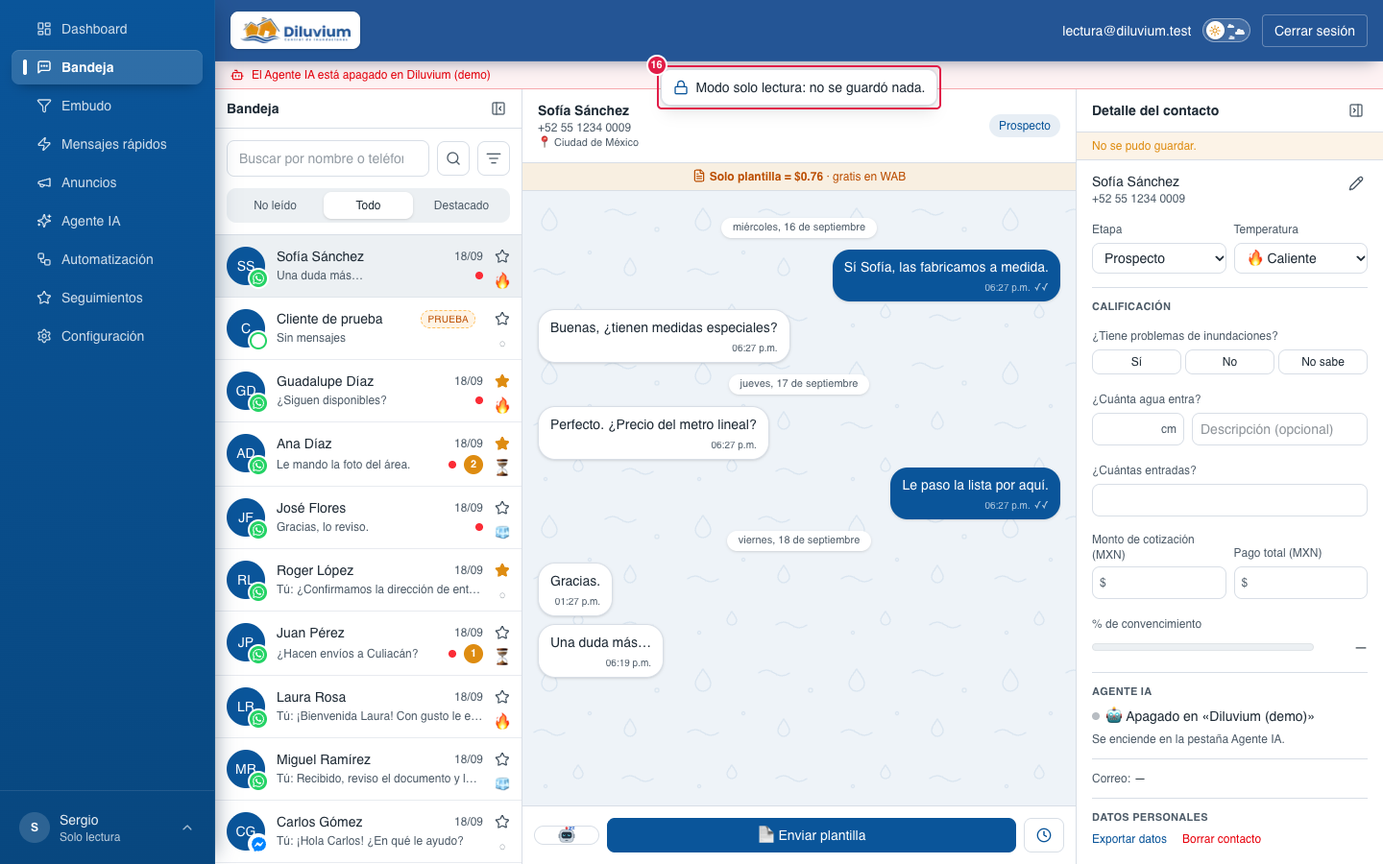
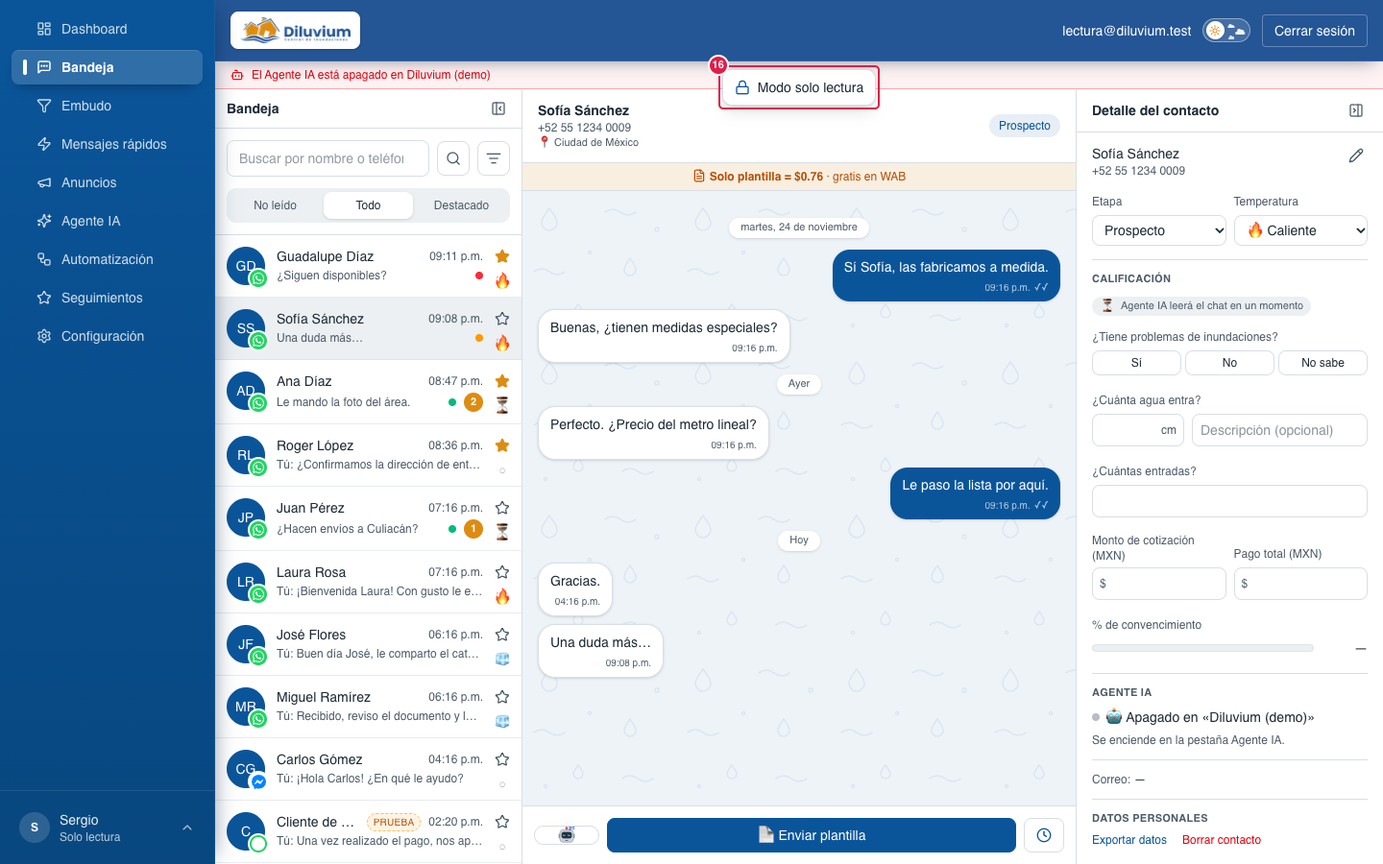
feat(roles): Solo lectura: el aviso «Modo solo lectura» sale antes de cualquier ventana
Pedido del dueño (27-nov-2026): con el rol Solo lectura, guardar un workflow nuevo dejaba la ventana en
«Guardando…» trabada. Ahora:
- El aviso dice solo «Modo solo lectura» (sin «: no se guardó nada»).
- Toda acción clave (Guardar, Borrar, Editar, Nuevo, Crear, Enviar, Cambiar, Desactivar, «Sí, …»,
  Pausar, Programar, Exportar, Descargar…) se frena en el navegador en cuanto se presiona (pointerdown,
  clic o Enter): sale el aviso y no se abre ninguna ventana ni se queda nada en «Guardando…»
  (lib/auth/solo-lectura-navegador.ts › esAccionClave). Cerrar, filtros, buscar y navegar siguen igual.
- Red de seguridad: TopConfirm y ArcoDialog se cierran solos con el aviso para este rol
  (components/solo-lectura/cierre-solo-lectura.tsx); «Salir sin guardar» queda abierta (cambia={false}).
- El servidor sigue igual (ya rechazaba todo cambio). Sin migración.
- Mapa: Menú › 16 y su captura 00-aviso-solo-lectura, Inicio › Roles, Glosario; CLAUDE.md (largo).

Verificado en local (build de producción, datos de ejemplo, como Solo lectura): 14 pantallas, 0 botones
trabados, 0 ventanas de confirmar abiertas, base y colas de Redis idénticas. 3,074 pruebas con base.

diff --git a/lib/auth/solo-lectura-navegador.ts b/lib/auth/solo-lectura-navegador.ts
@@ -1,11 +1,14 @@
 // «Solo lectura» en el NAVEGADOR (26-nov-2026, lib/auth/solo-lectura.ts). Solo se instala en la
 // pestaña de ese rol (components/solo-lectura/aviso-solo-lectura.tsx). Dos cosas:
-// 1. El aviso «Modo solo lectura: no se guardó nada» cuando el servidor rechaza algo: lo reconoce
+// 1. El aviso «Modo solo lectura» cuando el servidor rechaza algo: lo reconoce
 //    en la respuesta misma (Server Action con el digest SOLO_LECTURA o ruta con x-solo-lectura), así
 //    sale sin importar cómo maneje el error cada pantalla.
 // 2. Descargas de datos de clientes («Exportar datos», «Descargar» del visor, la foto girada): en vez de bajar
 //    un archivo (o uno roto: la ruta lo rechaza), sale el aviso. Todo <a download> cuenta.
-// 3. No deja escribir fuera de los buscadores (`type="search"` o dentro de `data-buscador`): la caja
+// 3. Acciones clave (Guardar, Borrar, Editar, Crear, Enviar, Cambiar, Desactivar, «Sí, …»): el aviso sale ANTES, al
+//    presionar, y no se abre ninguna ventana ni se queda nada en «Guardando…» (decisión del dueño, 27-nov-2026).
+//    Las ventanas de confirmar que se abrieran por otro camino se cierran solas con el aviso (bloqueaVentana).
+// 4. No deja escribir fuera de los buscadores (`type="search"` o dentro de `data-buscador`): la caja
 //    queda de solo lectura al enfocarla (se puede seleccionar y copiar) y al intentar teclear, pegar
 //    o soltar algo sale el mismo aviso.
 // Lo que de verdad impide guardar es el servidor; esto es para que se entienda qué pasó.
@@ -49,6 +52,55 @@ export function avisar(): void {
     apagar = null;
     cambiar(false);
   }, AVISO_MS);
+}
+
+/** ¿Esta pestaña es de «Solo lectura»? (lo prende instalarSoloLectura, montado en el layout solo para ese rol). */
+export function pestanaSoloLectura(): boolean {
+  return typeof window !== "undefined" && window.__crmSoloLectura === true;
+}
+
+/** ¿Una ventana de confirmar (borrar, guardar, cambiar…) debe cerrarse sola con el aviso en vez de abrirse? */
+export function bloqueaVentana(): boolean {
+  return pestanaSoloLectura();
+}
+
+// Primera palabra del nombre de un botón que hace un cambio. «Cancelar» solo (cerrar una ventana) no cuenta; «Cancelar
+// guía» o «Cancelar seguimiento» sí. Filtros, buscar, ver, abrir, copiar, cerrar y «Aplicar» (periodo) no cuentan.
+const VERBOS_CLAVE = new Set([
+  "guardar", "borrar", "eliminar", "quitar", "desactivar", "reactivar", "activar", "restablecer", "agregar", "crear",
+  "nuevo", "nueva", "editar", "enviar", "mandar", "programar", "reprogramar", "pausar", "reanudar", "sincronizar",
+  "restaurar", "implementar", "publicar", "subir", "adjuntar", "importar", "exportar", "descargar", "imprimir", "marcar",
+  "renombrar", "duplicar", "mover", "pasar", "si", "confirmar", "generar", "cotizar", "reintentar", "apagar", "encender",
+  "empezar", "despertar", "deshacer", "registrar", "probar", "ejecutar", "cambiar", "destacar", "escribir", "ya",
+  "aprobar", "usar",
+]);
+
+function normalizar(texto: string): string {
+  return texto.normalize("NFD").replace(/[\u0300-\u036f]/g, "").toLowerCase().replace(/^[^a-zñ]+/, "").trim();
+}
+
+/** ¿El nombre del botón es de una acción que cambia algo? */
+export function esAccionClave(nombre: string): boolean {
+  const texto = normalizar(nombre);
+  const [primera = "", ...resto] = texto.split(/[\s,.:;!?¿¡()]+/).filter(Boolean);
+  if (primera === "cancelar") return resto.length > 0;
+  if (primera === "volver") return texto.startsWith("volver a darle");
+  return VERBOS_CLAVE.has(primera);
+}
+
+const PRESIONABLE = 'button, [role="button"], [role="menuitem"], [role="menuitemradio"], [role="menuitemcheckbox"], a[href], input[type="submit"], input[type="button"]';
+
+function nombreDe(el: Element): string {
+  return (el.getAttribute("aria-label") || el.textContent || (el as HTMLInputElement).value || "").replace(/\s+/g, " ").trim();
+}
+
+/** El botón que se presionó, si es una acción clave y no está en un lugar permitido; si no, null. */
+function accionClaveDe(target: EventTarget | null): Element | null {
+  if (!(target instanceof Element)) return null;
+  const el = target.closest(PRESIONABLE);
+  if (!el || el.closest('[data-solo-lectura="permitir"], [data-buscador]')) return null;
+  if (el.getAttribute("data-solo-lectura") === "bloquear") return el;
+  return esAccionClave(nombreDe(el)) ? el : null;
 }
 
 // Cajas donde se escribe texto. Las demás (casillas, opciones, archivos, rangos) son botones.
@@ -119,6 +171,37 @@ export function instalarSoloLectura(): void {
   });
 
   const objetivo = (event: Event) => (event.target instanceof Element ? event.target : null);
+  // Acciones clave: se frena en cuanto se presiona (antes de que el menú o la ventana se abran con pointerdown) y se
+  // traga el clic que sigue, para que React ni se entere. Enter o espacio con el teclado, igual.
+  const frenar = (event: Event) => {
+    event.preventDefault();
+    event.stopImmediatePropagation();
+  };
+  let avisadoEn = 0;
+  for (const tipo of ["pointerdown", "mousedown", "pointerup", "mouseup", "click"] as const) {
+    document.addEventListener(
+      tipo,
+      (event) => {
+        if (!accionClaveDe(event.target)) return;
+        frenar(event);
+        if (tipo === "pointerdown" || (tipo === "click" && Date.now() - avisadoEn > 400)) {
+          avisadoEn = Date.now();
+          avisar();
+        }
+      },
+      true,
+    );
+  }
+  document.addEventListener(
+    "keydown",
+    (event) => {
+      if ((event.key === "Enter" || event.key === " ") && accionClaveDe(event.target)) {
+        frenar(event);
+        avisar();
+      }
+    },
+    true,
+  );
   // Incluye el <a download> que se crea y se presiona por código (export-contact-dialog.tsx, viewer-rotated-download.ts).
   document.addEventListener(
     "click",

diff --git a/lib/auth/solo-lectura.test.ts b/lib/auth/solo-lectura.test.ts
@@ -9,7 +9,7 @@ import {
   SOLO_LECTURA_MENSAJE,
   SoloLecturaError,
 } from "./solo-lectura";
-import { esCajaBloqueada, esRespuestaRechazada, esTeclaQueEscribe } from "./solo-lectura-navegador";
+import { esAccionClave, esCajaBloqueada, esRespuestaRechazada, esTeclaQueEscribe } from "./solo-lectura-navegador";
 
 describe("rol «Solo lectura»", () => {
   it("reconoce el rol, también junto a otros", () => {
@@ -101,5 +101,19 @@ describe("«Solo lectura» en el navegador", () => {
     const res = new Response(`1:E{"digest":"${SOLO_LECTURA_DIGEST}"}`, { status: 500 });
     await esRespuestaRechazada(res, true);
     expect(await res.text()).toContain(SOLO_LECTURA_DIGEST);
+  });
+});
+
+describe("acciones clave: el aviso sale antes de cualquier ventana (27-nov-2026)", () => {
+  it("guardar, borrar, editar, crear, enviar, cambiar, desactivar y las confirmaciones «Sí, …» cuentan", () => {
+    for (const nombre of ["Guardar", "Guardar cambios", "Borrar", "Borrar contacto", "Editar mensaje", "+ Nuevo workflow", "Nuevo contacto", "Crear enlace de prueba", "📄 Enviar plantilla", "Enviar", "Cambiar hora", "Desactivar", "Reactivar", "Sí, borrar", "Sí, guardar", "Pausar agente", "Programar para las 22:00", "Exportar datos", "Descargar", "Marcar como leído", "Quitar tarjeta", "Restablecer contraseña", "Cancelar guía", "Volver a darle seguimiento", "Ya la solicité", "Agregar"]) {
+      expect(esAccionClave(nombre), nombre).toBe(true);
+    }
+  });
+
+  it("cerrar, filtrar, buscar, ver y navegar no cuentan", () => {
+    for (const nombre of ["Cancelar", "Cerrar", "No", "Seguir editando", "Salir sin guardar", "Aplicar", "Buscar", "Todo", "No leído", "Destacado", "Workflows", "Biblioteca", "Historial", "Mi cuenta", "Cerrar sesión", "Sofía Sánchez", "Copiar", "Abrir", "Actualizar", "← Workflows", "Hoy", "7 días"]) {
+      expect(esAccionClave(nombre), nombre).toBe(false);
+    }
   });
 });

diff --git a/components/ui/top-confirm.tsx b/components/ui/top-confirm.tsx
@@ -11,6 +11,8 @@
 //   llegue el texto, así el aviso sí se anuncia.
 // Sin lógica de datos. Respeta "reducir movimiento" (la animación es motion-safe).
 import { useEffect, useId, useLayoutEffect, useRef, useState } from "react";
+import { CierreSoloLectura } from "@/components/solo-lectura/cierre-solo-lectura";
+import { bloqueaVentana } from "@/lib/auth/solo-lectura-navegador";
 
 function TopLayer({ children }: { children: React.ReactNode }) {
   return (
@@ -22,7 +24,32 @@ function TopLayer({ children }: { children: React.ReactNode }) {
   );
 }
 
-export function TopConfirm({
+type TopConfirmProps = {
+  title: string;
+  children?: React.ReactNode;
+  confirmLabel: string;
+  // Texto del botón que no hace nada (p. ej. "Seguir editando"); por omisión "Cancelar".
+  cancelLabel?: string;
+  pendingLabel?: string;
+  pending?: boolean;
+  // La acción primaria no aplica todavía (p. ej. el nombre nuevo está vacío).
+  confirmDisabled?: boolean;
+  // false = no se enfoca "Cancelar" al abrir: el campo de adentro trae su propio autoFocus.
+  focusCancel?: boolean;
+  onConfirm: () => void;
+  onCancel: () => void;
+};
+
+/**
+ * Pregunta con «Cancelar» y la acción primaria. Con «Solo lectura» (lib/auth/solo-lectura.ts) no se abre: avisa y se
+ * cancela sola (27-nov-2026). `cambia={false}` para las que no cambian nada (p. ej. «Salir sin guardar»).
+ */
+export function TopConfirm({ cambia = true, ...props }: TopConfirmProps & { cambia?: boolean }) {
+  if (cambia && bloqueaVentana()) return <CierreSoloLectura onCerrar={props.onCancel} />;
+  return <TopConfirmVentana {...props} />;
+}
+
+function TopConfirmVentana({
   title,
   children,
   confirmLabel,

diff --git a/app/(app)/contactos/_components/arco-dialog.tsx b/app/(app)/contactos/_components/arco-dialog.tsx
@@ -7,8 +7,25 @@
 import { useEffect, useId, useLayoutEffect, useRef, useState } from "react";
 import { createPortal } from "react-dom";
 import { CloseX } from "@/components/ui/close-x";
+import { CierreSoloLectura } from "@/components/solo-lectura/cierre-solo-lectura";
+import { bloqueaVentana } from "@/lib/auth/solo-lectura-navegador";
 
-export function ArcoDialog({
+type ArcoDialogProps = {
+  title: string;
+  /** Cerrar (Esc, fondo, ✕). Quien la usa decide si se puede (p. ej. no mientras borra). */
+  onClose: () => void;
+  children: React.ReactNode;
+  /** Botones de abajo a la derecha. */
+  footer: React.ReactNode;
+};
+
+/** Con «Solo lectura» no se abre (exportar y borrar son cambios o descargas): avisa y se cierra sola (27-nov-2026). */
+export function ArcoDialog(props: ArcoDialogProps) {
+  if (bloqueaVentana()) return <CierreSoloLectura onCerrar={props.onClose} />;
+  return <ArcoDialogVentana {...props} />;
+}
+
+function ArcoDialogVentana({
   title,
   onClose,
   children,

diff --git a/components/solo-lectura/cierre-solo-lectura.tsx b/components/solo-lectura/cierre-solo-lectura.tsx
@@ -1,0 +1,16 @@
+"use client";
+
+// Lo que se dibuja en lugar de una ventana de confirmar (borrar, guardar, cambiar…) cuando la pestaña es de
+// «Solo lectura» (27-nov-2026, decisión del dueño: el aviso sale ANTES de la ventana, nunca después). Avisa y le
+// dice a quien la abrió que se cerró, para que nada se quede abierto ni en «Guardando…». No dibuja nada.
+import { useEffect, useRef } from "react";
+import { avisar } from "@/lib/auth/solo-lectura-navegador";
+
+export function CierreSoloLectura({ onCerrar }: { onCerrar: () => void }) {
+  const cerrar = useRef(onCerrar);
+  useEffect(() => {
+    avisar();
+    cerrar.current();
+  }, []);
+  return null;
+}

diff --git a/lib/auth/solo-lectura.ts b/lib/auth/solo-lectura.ts
@@ -18,7 +18,8 @@ export const SOLO_LECTURA_ROLE = "viewer";
 /** Viaja en el error de la Server Action rechazada (Next conserva el digest en producción). */
 export const SOLO_LECTURA_DIGEST = "SOLO_LECTURA";
 
-export const SOLO_LECTURA_MENSAJE = "Modo solo lectura: no se guardó nada.";
+// Texto del aviso (27-nov-2026, decisión del dueño: solo «Modo solo lectura», sin «: no se guardó nada»).
+export const SOLO_LECTURA_MENSAJE = "Modo solo lectura";
 
 /**
  * Descargas que este rol no puede hacer (la ruta las rechaza y el navegador avisa en vez de bajar un archivo roto).

diff --git a/components/solo-lectura/aviso-solo-lectura.tsx b/components/solo-lectura/aviso-solo-lectura.tsx
@@ -1,6 +1,6 @@
 "use client";
 
-// Aviso «Modo solo lectura: no se guardó nada» (26-nov-2026, decisión del dueño: aviso corto al
+// Aviso «Modo solo lectura» (26-nov-2026, decisión del dueño: aviso corto al
 // presionar algo que guardaría). Solo se monta para el rol «Solo lectura» (app/(app)/layout.tsx).
 // Mismo lugar que los avisos del CRM (TopNotice): abajo de la barra azul, centrado en el contenido.
 // La lógica (cuándo sale, qué cajas no dejan escribir) vive en lib/auth/solo-lectura-navegador.ts.

diff --git a/app/(app)/automatizacion/_components/automatizacion-panel.tsx b/app/(app)/automatizacion/_components/automatizacion-panel.tsx
@@ -321,6 +321,7 @@ export function AutomatizacionPanel({
 
       {asking?.kind === "salir" && editing && (
         <TopConfirm
+          cambia={false}
           title={`Estás por salir de ${editing.original ? "Editar workflow" : "Nuevo workflow"}`}
           confirmLabel="Salir sin guardar"
           cancelLabel="Seguir editando"

diff --git a/docs/mapa-crm/1-glosario.md b/docs/mapa-crm/1-glosario.md
@@ -10,7 +10,7 @@
 | **Búsqueda en los chats (lupa)** | La **lupa** entre el buscador y el filtro de la Bandeja y del Embudo. Prendida se pinta de **amarillo** y el mismo buscador busca una palabra **dentro de los mensajes** de todos los chats (cliente, vendedor, Agente IA, historial, pies de foto y transcripciones; no los avisos 📝 ni los comentarios), sin acentos y con mínimo 3 letras. Solo quedan los contactos con la palabra, con un **círculo amarillo** (en cuántos mensajes aparece) junto al naranja de no leídos; al abrir el chat la palabra sale **resaltada en amarillo** y la barra «1 de N» recorre cada coincidencia. El círculo es amarillo **sólido con borde**; la tarjeta amarilla del Embudo es otra cosa (fondo claro: el agente necesita al vendedor). Desde el 29-sep-2026. |
 | **No leído (Embudo)** | Píldora con un **sobre** junto al contador de cada columna del Embudo, del mismo alto que el contador. Prendida (**naranja**) la columna deja solo las tarjetas con algo pendiente: **círculo naranja** (sin ver), **azul** (sin contestar) o **amarilla** (el Agente IA necesita al vendedor), y el contador cuenta solo esas. Cada columna va por su lado. Sobre **tenue** = esa columna no tiene nada pendiente. Es más amplio que la pestaña **No leído** de la Bandeja, que solo lleva el círculo naranja. Desde el 30-sep-2026. |
 | **Actualización del CRM** | Cuando se publica una versión nueva del CRM, una pestaña que ya estaba abierta sigue con la versión anterior y lo que hace con el servidor falla. Si al vendedor le falla algo por eso, la barra de arriba avisa **«Hay una nueva actualización del CRM: recarga la página»** (Menú › 13) y **Recargar** lo arregla. Si no falla nada, no se avisa. Desde el 1-oct-2026. |
-| **Solo lectura** | Rol para alguien de confianza que solo **observa** (26-nov-2026): ve todo lo del CRM, como el Owner, y puede presionar botones, pero **nada se guarda ni se envía** (sale el aviso «Modo solo lectura: no se guardó nada»). Solo escribe en los buscadores. Abrir un chat no lo marca como leído. No descarga datos de clientes ni contesta opiniones. Se da en Configuración › Vendedores (14). |
+| **Solo lectura** | Rol para alguien de confianza que solo **observa** (26-nov-2026): ve todo lo del CRM, como el Owner, y puede presionar botones, pero **nada se guarda ni se envía** (sale el aviso «Modo solo lectura»). Solo escribe en los buscadores. Abrir un chat no lo marca como leído. No descarga datos de clientes ni contesta opiniones. Se da en Configuración › Vendedores (14). |
 | **Semáforo** | Punto de color en la Bandeja: cuánto lleva el cliente esperando respuesta **de una persona**. Verde menos de 15 min, ámbar menos de 1 h, rojo más de 1 h. |
 | **Ventana de 24 h** | Regla de WhatsApp: hasta 24 horas después del último mensaje del cliente se puede escribir libre. Pasadas las 24 h **solo se puede mandar una plantilla**. En **Instagram** es distinta (ver Instagram). |
 | **Instagram** | Canal de mensajes directos de la cuenta de Instagram de Diluvium (desde el 2-oct-2026, por Zernio, igual que WhatsApp). El cliente de Instagram es un **contacto aparte**: no tiene teléfono, se reconoce por su cuenta de Instagram y debajo de su nombre se ve su **@usuario · Instagram**; no se une con uno de WhatsApp. El **Agente IA** también contesta ahí. Reglas de Instagram: hasta 24 h desde el último mensaje del cliente escribe cualquiera; **de 24 h a 7 días solo un vendedor** (ni el Agente IA ni los workflows automáticos; el vendedor sí puede usar «/»); después, **nadie** hasta que el cliente vuelva a escribir. No hay plantillas ni se le puede escribir primero. Un texto largo (más de ~1,000 letras, menos con acentos) le llega en **varias partes**, y el pie de una foto o video le llega como **otro mensaje** justo después; en el CRM sigue siendo una sola burbuja. Las notas de voz y el GIF no se pueden mandar a Instagram. Lo que el cliente manda y el CRM no puede mostrar (foto o video temporal, o algo que Instagram no deja ver) sale como **tarjeta** naranja punteada, no como mensaje: ábrelo en la app de Instagram. |

diff --git a/docs/mapa-crm/2-menu-y-barra.md b/docs/mapa-crm/2-menu-y-barra.md
@@ -32,7 +32,7 @@ Lo que se ve en todas las pantallas.
 | 12 | **Cerrar sesión** (naranja) | Ahora sí sale del CRM (dice «Saliendo…» mientras). Al salir se borran los **borradores** de los chats guardados en ese equipo (ver Borrador del chat en el Glosario; 29-oct-2026). | Todos |
 | 13 | **Aviso de actualización** | Píldora en la barra azul: **«Hay una nueva actualización del CRM: recarga la página»** con el botón naranja **Recargar**. Sale **solo** cuando falló algo que hizo el vendedor (enviar, guardar, adjuntar, abrir un PDF…) porque su pestaña es de antes de una actualización del CRM. **Nunca** sale solo por haber versión nueva, ni por un refresco automático que falló (mensajes nuevos, programados). Donde falló, el mensaje propio también lo dice en la burbuja al enviar, la foto HEIC, el PDF del visor y Mensajes rápidos; las demás pantallas conservan su mensaje. Se quita al recargar. En celular baja como franja azul debajo de la barra (Versión móvil › 13). | Todos |
 | 15 | **Pantalla de «cargando»** | Al tocar una pestaña del menú sale **al instante** la forma gris de esa pantalla (la Bandeja con su lista, el Embudo con sus columnas, el Dashboard con sus tarjetas; las demás, título y lista) mientras llegan sus datos; cuando llegan, se cambia sola por la pantalla real. Antes el clic no mostraba nada hasta tener la página completa. Con «Reducir movimiento» las formas no parpadean. Desde el 31-oct-2026. | Todos |
-| 16 | **Aviso «Modo solo lectura»** | Con el rol **Solo lectura** (26-nov-2026): al presionar algo que guardaría, enviaría o borraría (un botón, mover una tarjeta, cambiar la etapa…) sale arriba, centrado, **«Modo solo lectura: no se guardó nada.»** con un candado, y se va solo en unos segundos. También sale al intentar escribir o pegar en una caja que no sea un buscador, y al intentar descargar datos de un cliente («Exportar datos», «Descargar» del visor). La pantalla queda como estaba; a veces el lugar donde se presionó dice además su propio «No se pudo…». | Solo lectura |
+| 16 | **Aviso «Modo solo lectura»** | Con el rol **Solo lectura** (26-nov-2026): sale arriba, centrado, **«Modo solo lectura»** con un candado, y se va solo en unos segundos. Desde el 27-nov-2026 sale **en cuanto se presiona** un botón que cambiaría algo (Guardar, Borrar, Editar, Nuevo, Crear, Enviar, Cambiar, Desactivar, «Sí, …», Pausar, Programar, Exportar, Descargar…): **antes** de cualquier ventana de confirmar y sin que nada se quede en «Guardando…» o «Borrando…». Si una ventana de confirmar se abriera por otro camino, se cierra sola con el mismo aviso. También sale al intentar escribir o pegar fuera de un buscador, y cuando el servidor rechaza un cambio que no pasó por un botón (mover una tarjeta, cambiar la etapa en su selector). | Solo lectura |
 
 **En celular** (pantalla de menos de 768 px) el menú lateral se esconde y la barra lleva un botón ☰ que abre el
 mismo menú en un cajón; ver [Versión móvil](3.10-version-movil.md#310-versión-móvil-celular).

diff --git a/docs/mapa-crm/1-inicio.md b/docs/mapa-crm/1-inicio.md
@@ -21,6 +21,6 @@
 | **Owner** | El dueño de la cuenta | Todo (incluidas las filas de **Vendedores** en Agente IA › Historial) | Todo, incluida la pestaña **Configuración**. Es el único que puede dar el rol Owner; ningún Admin lo puede modificar. |
 | **Admin** | Encargado del equipo | Todo (incluidas las filas de **Vendedores** en Agente IA › Historial) | Todo lo del vendedor + **Configuración** (dar de alta vendedores, cambiar roles, restablecer contraseñas, desactivar). No puede tocar al Owner. |
 | **Vendedor** | Quien atiende a los clientes | Todo **menos Configuración** (y en Agente IA › Historial no ve las filas de **Vendedores**) | Todo lo demás: Dashboard (incluido registrar recargas y el historial del gasto de IA), Bandeja (también **adjuntar** fotos, videos y documentos en el chat, mandar fotos y videos de la Biblioteca con **Multimedia** y manejar el **seguimiento del Agente IA**: ver, cambiar la hora, mandarlo él o cancelarlo), Embudo (también dar de alta contactos y escribirles primero), Datos personales del contacto (**exportar** y **borrar**, en el Detalle), Mensajes rápidos (crear, editar y borrar mensajes rápidos y plantillas), Anuncios, Agente IA (Goal, FAQs, modelos, opciones, **seguimientos**, tallas y canales; el **Historial** solo se consulta), Automatización y Seguimientos (ver las opiniones, crear y borrar enlaces de prueba y cambiar el enlace de Google). También edita o borra comentarios de otros. |
-| **Solo lectura** | Alguien de confianza que entra a **observar** cómo funciona el CRM (26-nov-2026) | Todo, igual que el Owner (incluida **Configuración**) | **Nada.** Puede presionar botones y abrir ventanas, pero nada se guarda ni se envía: sale el aviso «Modo solo lectura: no se guardó nada» (Menú › 16). Solo escribe en los **buscadores**; las demás cajas no dejan escribir. Abrir un chat **no** lo marca como leído para el equipo, ni gasta en el Agente IA. **No descarga datos de clientes**: «Exportar datos» del Detalle ni «Descargar» de los archivos del chat (las fotos y los PDF sí los ve). Tampoco contesta el formulario de opinión de un cliente, ni cambia su propia contraseña (se la pone el Owner o un Admin desde Configuración). |
+| **Solo lectura** | Alguien de confianza que entra a **observar** cómo funciona el CRM (26-nov-2026) | Todo, igual que el Owner (incluida **Configuración**) | **Nada.** Puede presionar botones y abrir ventanas, pero nada se guarda ni se envía: sale el aviso «Modo solo lectura» (Menú › 16). Solo escribe en los **buscadores**; las demás cajas no dejan escribir. Abrir un chat **no** lo marca como leído para el equipo, ni gasta en el Agente IA. **No descarga datos de clientes**: «Exportar datos» del Detalle ni «Descargar» de los archivos del chat (las fotos y los PDF sí los ve). Tampoco contesta el formulario de opinión de un cliente, ni cambia su propia contraseña (se la pone el Owner o un Admin desde Configuración). |
 
 Nadie es "dueño" de un contacto: **todos ven todos los contactos, siempre**.

diff --git a/CLAUDE.md b/CLAUDE.md
@@ -158,7 +158,7 @@ Reglas duras:
   páginas y rutas; nunca decidir por el encabezado `next-action`: Next corre acciones por formulario sin él). Lo que
   solo lee lo declara: páginas, layouts, rutas GET y Server Actions de consulta (estas, además, en la lista de
   `lib/auth/solo-lectura-guard.test.ts`). Todo `catch (error)` de una Server Action empieza con
-  `relanzarSoloLectura(error)` (si no, no sale el aviso). Tampoco baja datos de clientes ni contesta opiniones.
+  `relanzarSoloLectura(error)` (si no, no sale el aviso). Tampoco baja datos de clientes ni contesta opiniones. En el navegador, toda acción clave (Guardar, Borrar, Editar, Nuevo, Enviar, «Sí, …»…) muestra el aviso ANTES de abrir cualquier ventana (`esAccionClave`), y `TopConfirm`/`ArcoDialog` se cierran solos con ese rol (`cambia={false}` para las que no cambian nada).
 - **Goal y FAQs del Agente IA (regla del dueño, 9-oct-2026):** los cambios se juntan y se aplican en
   producción **una sola vez al día, después de las 22:00 (Mazatlán)**, salvo un error grave que haya que
   corregir de inmediato. Cada guardado obliga a Anthropic a volver a cobrar el Goal completo (~US$0.09);
@@ -217,7 +217,7 @@ lo del vendedor y que al vendedor solo le falte Configuración):**
 |---|---|
 | Owner | Dueño de la cuenta: todo, incluido administrar a los admins (solo él asigna el rol owner). |
 | Admin | Todo lo del vendedor + Configuración (Vendedores). |
-| Solo lectura (`viewer`) | Desde el 26-nov-2026: ve TODO lo que ve el owner (Configuración incluida) y puede presionar botones, pero nada se guarda ni se envía (sale el aviso «Modo solo lectura: no se guardó nada»); solo escribe en los buscadores; abrir un chat no lo marca como leído; no descarga datos de clientes («Exportar datos», «Descargar» del visor) ni contesta el formulario de opinión. `roleAllows` responde como owner; lo frena `requireActiveMembership` (ver Reglas duras). |
+| Solo lectura (`viewer`) | Desde el 26-nov-2026: ve TODO lo que ve el owner (Configuración incluida) y puede presionar botones, pero nada se guarda ni se envía (sale el aviso «Modo solo lectura»); solo escribe en los buscadores; abrir un chat no lo marca como leído; no descarga datos de clientes («Exportar datos», «Descargar» del visor) ni contesta el formulario de opinión. `roleAllows` responde como owner; lo frena `requireActiveMembership` (ver Reglas duras). |
 | Vendedor (`agent`) | Todas las herramientas del CRM menos la pestaña Configuración: Dashboard (incluido registrar recargas de IA), Bandeja, Embudo, Mensajes rápidos (fragmentos y crear/sincronizar plantillas de Meta), contactos en masa (importar/exportar/borrar), editar/borrar comentarios de otros, Anuncios, Agente IA (incluida la sección "Tallas y medidas", desde el 26-sep-2026) y Automatización. |
 
 ```
